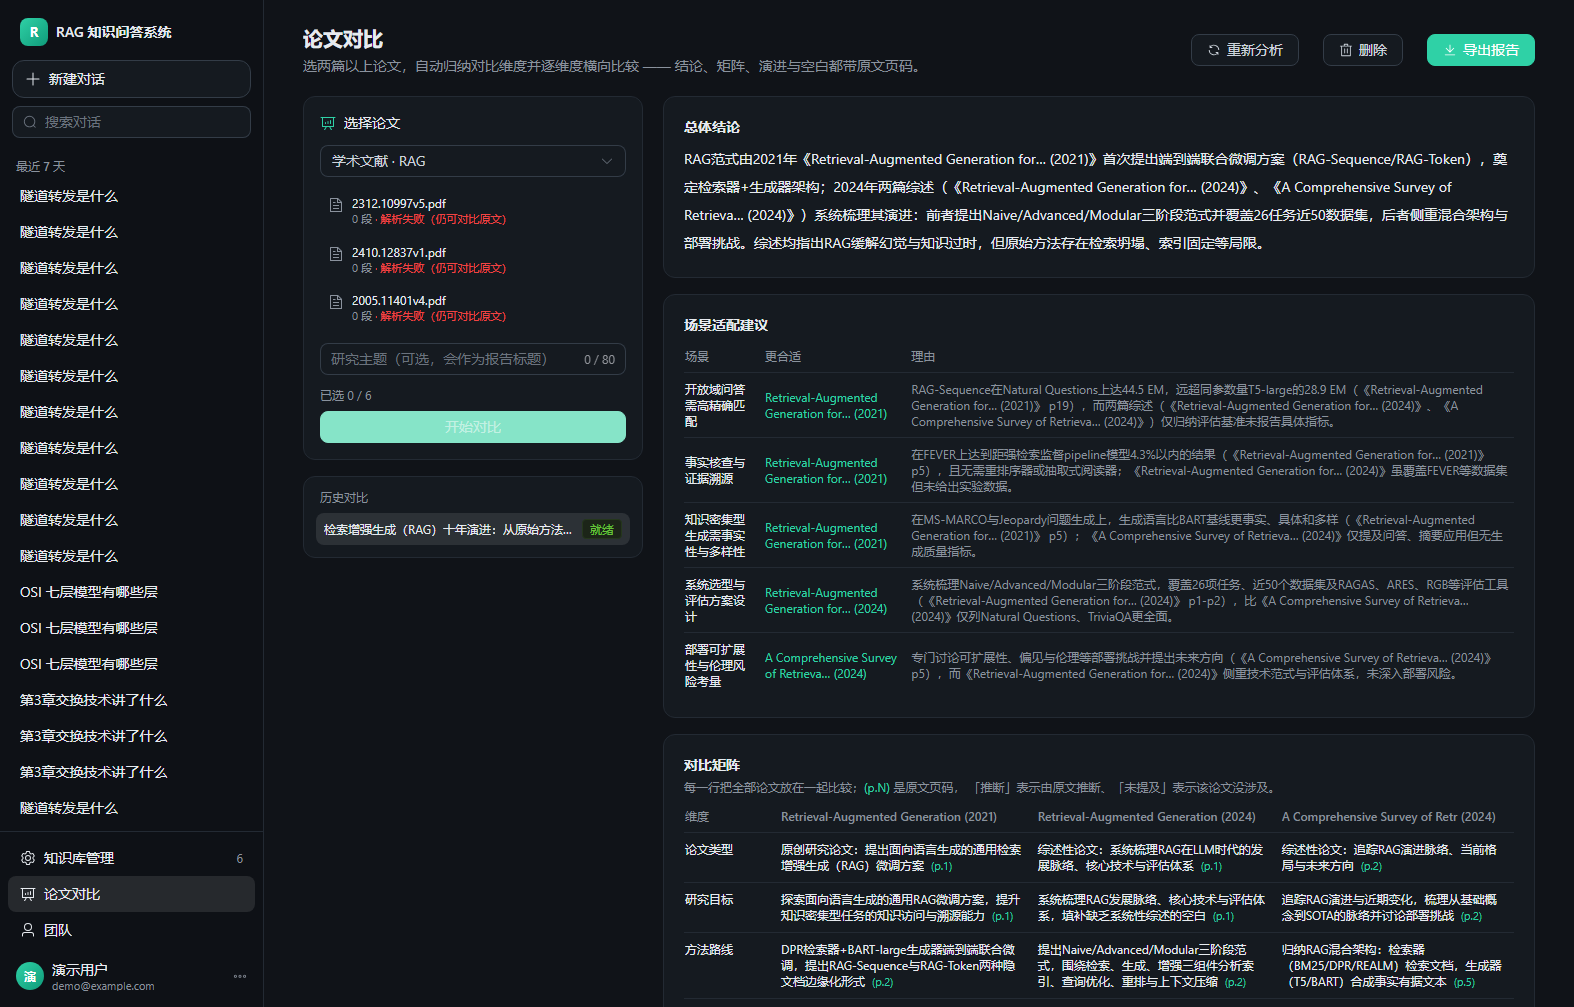
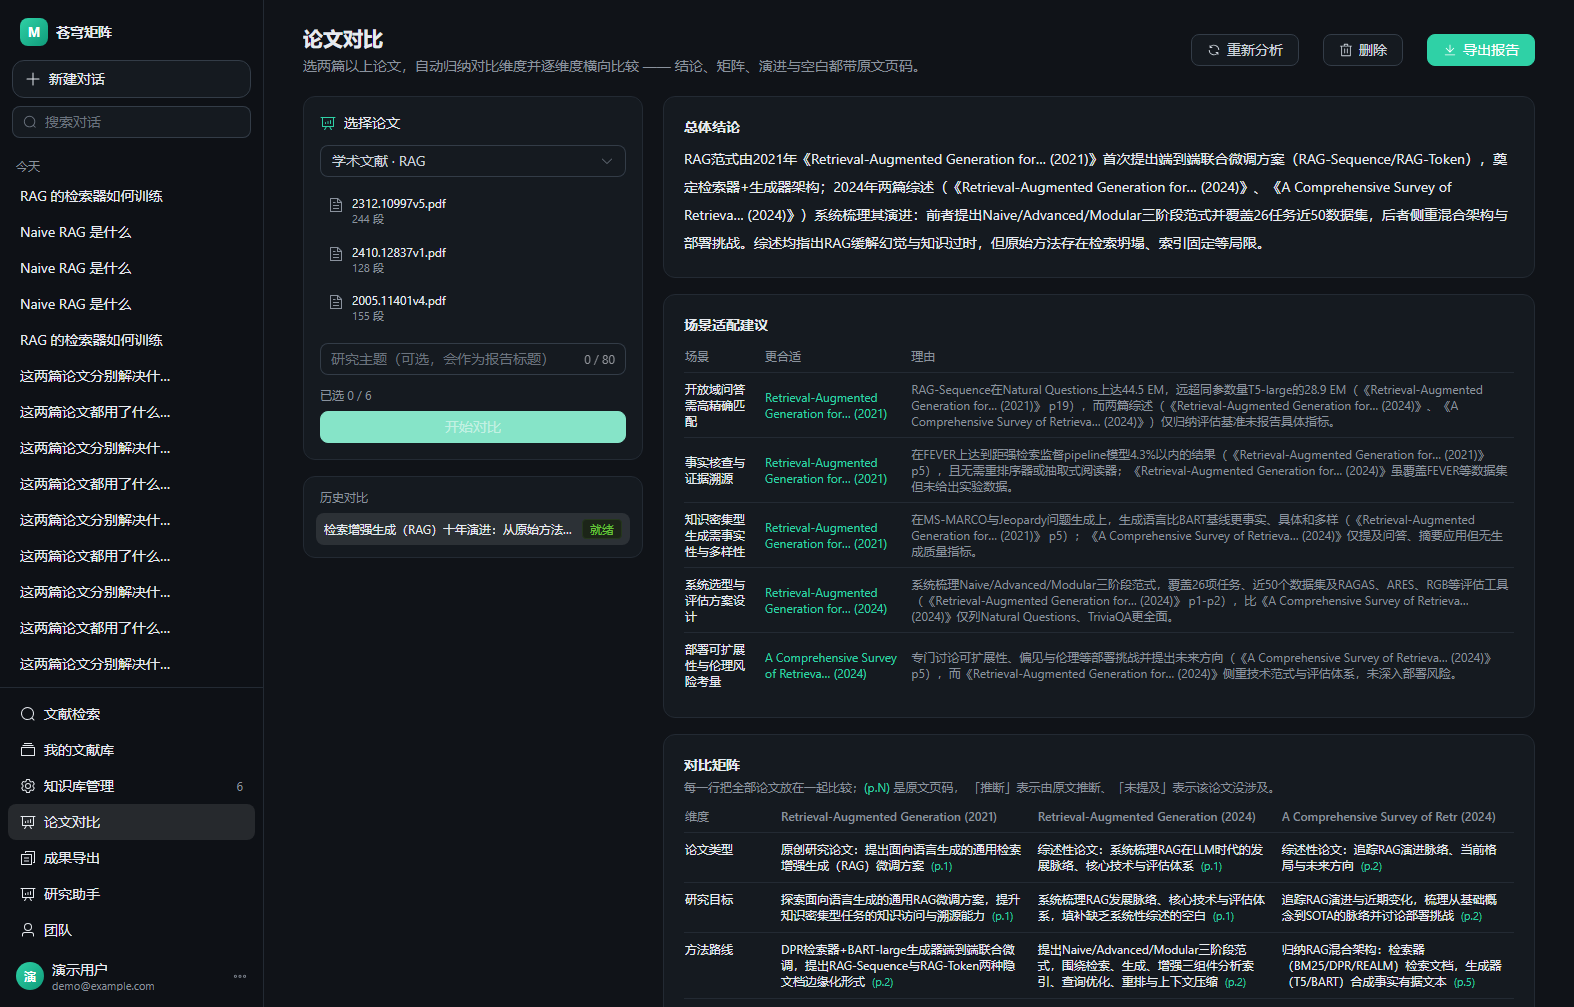
feat(brand): 产品更名「苍穹矩阵（Matrix-Scholar RAG Engine）」
## 新名字

- 中文：**苍穹矩阵**
- 英文全称：**Matrix-Scholar RAG Engine**
- 简称：**Matrix-Scholar**

> 名字取自《黑客帝国》：矩阵代表对底层代码的绝对掌控；
> 学术文献如同苍穹，系统穿透海量论文的表象，直击知识底层的答案。

## 改了哪些地方

| 位置 | 改动 |
| --- | --- |
| `client/src/config/index.js` | `APP_TITLE` 默认值、`COMPANY_NAME` 署名 |
| `client/.env.development` / `.env.production` / `.env.example` | `VITE_APP_TITLE`、`VITE_COMPANY_NAME`（**这才是真正生效的来源**，config 里的默认值只是兜底） |
| `client/index.html` | 浏览器标签标题 |
| `client/src/components/layout/AppSidebar.vue` | Logo 字母 `R` → `M`，标题走 `APP_TITLE` |
| `client/README.md`、`server/app/__init__.py` | 文档/模块说明里的旧名 |
| `server/app/core/config.py` | `APP_NAME` → `matrix-scholar-server` |
| `server/app/main.py` | FastAPI 文档标题 |
| `package.json` | 包名 `matrix-scholar`、描述 |
| `docker-compose.yml`、`server/preflight.py` | 注释里的旧名 |
| `README.md` | 主标题 + 简介（含名字释义） |

## 故意没改的（改会出事）

| 保留 | 原因 |
| --- | --- |
| MySQL 数据库名 `chuangzhibei` | 改名等于清空现有数据（2 用户 / 25 文档 / 28 张表） |
| GitHub 仓库名 `NetStudy-AI` | 改名会让所有链接、CI badge、clone 地址失效 |
| 「传智杯」字样 | 是比赛名，不是产品名 |
| `localStorage` 键 `rag.access_token` | 改了会让所有已登录用户掉线 |

## 验证

- `npm run build` 通过
- 重启 Vite 后截图确认：侧边栏显示 **M · 苍穹矩阵**，页面标题同步
- 数据库、后端接口、检索功能均不受影响（只改展示名）

## 备注

`VITE_APP_TITLE` 在 `.env.*` 里，改 `config/index.js` 的默认值**不会生效** ——
第一次改完发现页面还是旧名，就是这个原因。

diff --git a/client/src/config/index.js b/client/src/config/index.js
@@ -15,10 +15,10 @@ export const API_BASE_URL = raw.VITE_API_BASE_URL || '/api'
 /** 是否启用内置 Mock：无后端也能完整体验整个前端流程 */
 export const isMockMode = toBool(raw.VITE_USE_MOCK, false)
 
-export const APP_TITLE = raw.VITE_APP_TITLE || 'RAG 知识问答系统'
+export const APP_TITLE = raw.VITE_APP_TITLE || '苍穹矩阵'
 
 /** 页脚展示用的主体信息（上线前按实际主体替换） */
-export const COMPANY_NAME = raw.VITE_COMPANY_NAME || 'RAG 知识问答系统项目组'
+export const COMPANY_NAME = raw.VITE_COMPANY_NAME || '苍穹矩阵（Matrix-Scholar）项目组'
 export const ICP_LICENSE = raw.VITE_ICP_LICENSE || ''
 export const SUPPORT_EMAIL = raw.VITE_SUPPORT_EMAIL || 'support@example.com'
 

diff --git a/client/index.html b/client/index.html
@@ -6,7 +6,7 @@
     <meta name="viewport" content="width=device-width, initial-scale=1.0" />
     <meta name="description" content="基于 RAG 的知识问答系统：上传文档、构建知识库、流式智能问答，答案可溯源" />
     <meta name="theme-color" content="#0b0e12" />
-    <title>RAG 知识问答系统</title>
+    <title>苍穹矩阵 · Matrix-Scholar</title>
     <style>
       /* 首屏防白闪：默认深灰底（主题切换后由 JS 接管） */
       html,

diff --git a/client/src/components/layout/AppSidebar.vue b/client/src/components/layout/AppSidebar.vue
@@ -157,7 +157,7 @@ async function handleCommand(command) {
         <span
           class="grid h-7 w-7 shrink-0 place-items-center rounded-lg bg-gradient-to-br from-brand-light to-brand text-[13px] font-bold text-white"
         >
-          R
+          M
         </span>
         <span class="truncate text-sm font-semibold app-text">
           {{ APP_TITLE }}

diff --git a/server/app/main.py b/server/app/main.py
@@ -124,7 +124,7 @@ async def lifespan(app: FastAPI):
 
 
 app = FastAPI(
-    title="创智杯 RAG 知识问答系统 · 后端",
+    title="苍穹矩阵 Matrix-Scholar · 后端",
     description=(
         "Python + FastAPI 应用服务层：JWT 鉴权、Celery 异步文档处理、"
         "LangChain 文本切片与多轮记忆的 RAG 引擎。"

diff --git a/server/app/core/config.py b/server/app/core/config.py
@@ -26,7 +26,7 @@ class Settings(BaseSettings):
     )
 
     # ---------------- 基础 ----------------
-    APP_NAME: str = "chuangzhibei-server"
+    APP_NAME: str = "matrix-scholar-server"
     DEBUG: bool = True
     API_PREFIX: str = "/api"
     PORT: int = 3000

diff --git a/server/preflight.py b/server/preflight.py
@@ -179,7 +179,7 @@ def check_frontend() -> None:
 
 def main() -> int:
     print('=' * 66)
-    print('  RAG 知识问答系统 · 环境预检')
+    print('  苍穹矩阵 · 环境预检')
     print('=' * 66)
 
     check_python()

diff --git a/server/app/__init__.py b/server/app/__init__.py
@@ -1,3 +1,3 @@
-"""创智杯 RAG 知识问答系统 —— 应用服务层（Python + FastAPI）。"""
+"""苍穹矩阵（Matrix-Scholar）—— 应用服务层（Python + FastAPI）。"""
 
 __version__ = "1.0.0"

diff --git a/client/README.md b/client/README.md
@@ -1,4 +1,4 @@
-# RAG 知识问答系统 · 前端
+# 苍穹矩阵 · 前端
 
 基于 **Vue 3 + Vite + TailwindCSS + Element Plus** 的单页应用（SPA），
 负责登录注册、智能问答对话、知识库与文档管理，通过 Axios 与后端异步通信，
@@ -181,7 +181,7 @@ client/
 | --- | --- | --- | --- |
 | `VITE_API_BASE_URL` | `/api` | `/api` | 接口前缀，开发期由 Vite 代理到 `http://localhost:3000` |
 | `VITE_USE_MOCK` | `true` | `false` | 是否启用内置 Mock 数据 |
-| `VITE_APP_TITLE` | `RAG 知识问答系统` | 同左 | 显示在登录页与侧边栏 |
+| `VITE_APP_TITLE` | `苍穹矩阵` | 同左 | 显示在登录页与侧边栏 |
 
 > 想交付一个「纯前端、点开就能演示」的构建包，把 `client/.env.production` 里的
 > `VITE_USE_MOCK` 改成 `true` 再 `npm run build` 即可。

diff --git a/README.md b/README.md
@@ -1,8 +1,12 @@
-# RAG 知识问答系统（NetStudy-AI）
+# 苍穹矩阵（Matrix-Scholar RAG Engine）
 
 [![CI](https://github.com/m-tx25/NetStudy-AI/actions/workflows/ci.yml/badge.svg)](https://github.com/m-tx25/NetStudy-AI/actions/workflows/ci.yml)
 
-> 传智杯 Web 方向参赛项目 · 一个支持**多团队协作**的 RAG 知识问答平台
+> **苍穹矩阵（Matrix-Scholar RAG Engine）** —— 一个面向学术文献的 RAG 平台：多团队协作、论文对比、研究辅助、成果导出。
+>
+> 名字取自《黑客帝国》：矩阵代表对底层代码的掌控；学术文献如同苍穹，系统穿透海量论文的表象，直击知识底层的答案。
+>
+> 传智杯 Web 方向参赛项目
 ### 团队成员：
 
 胡瑞祺：负责网关与网络层、基础设施与部署层。
